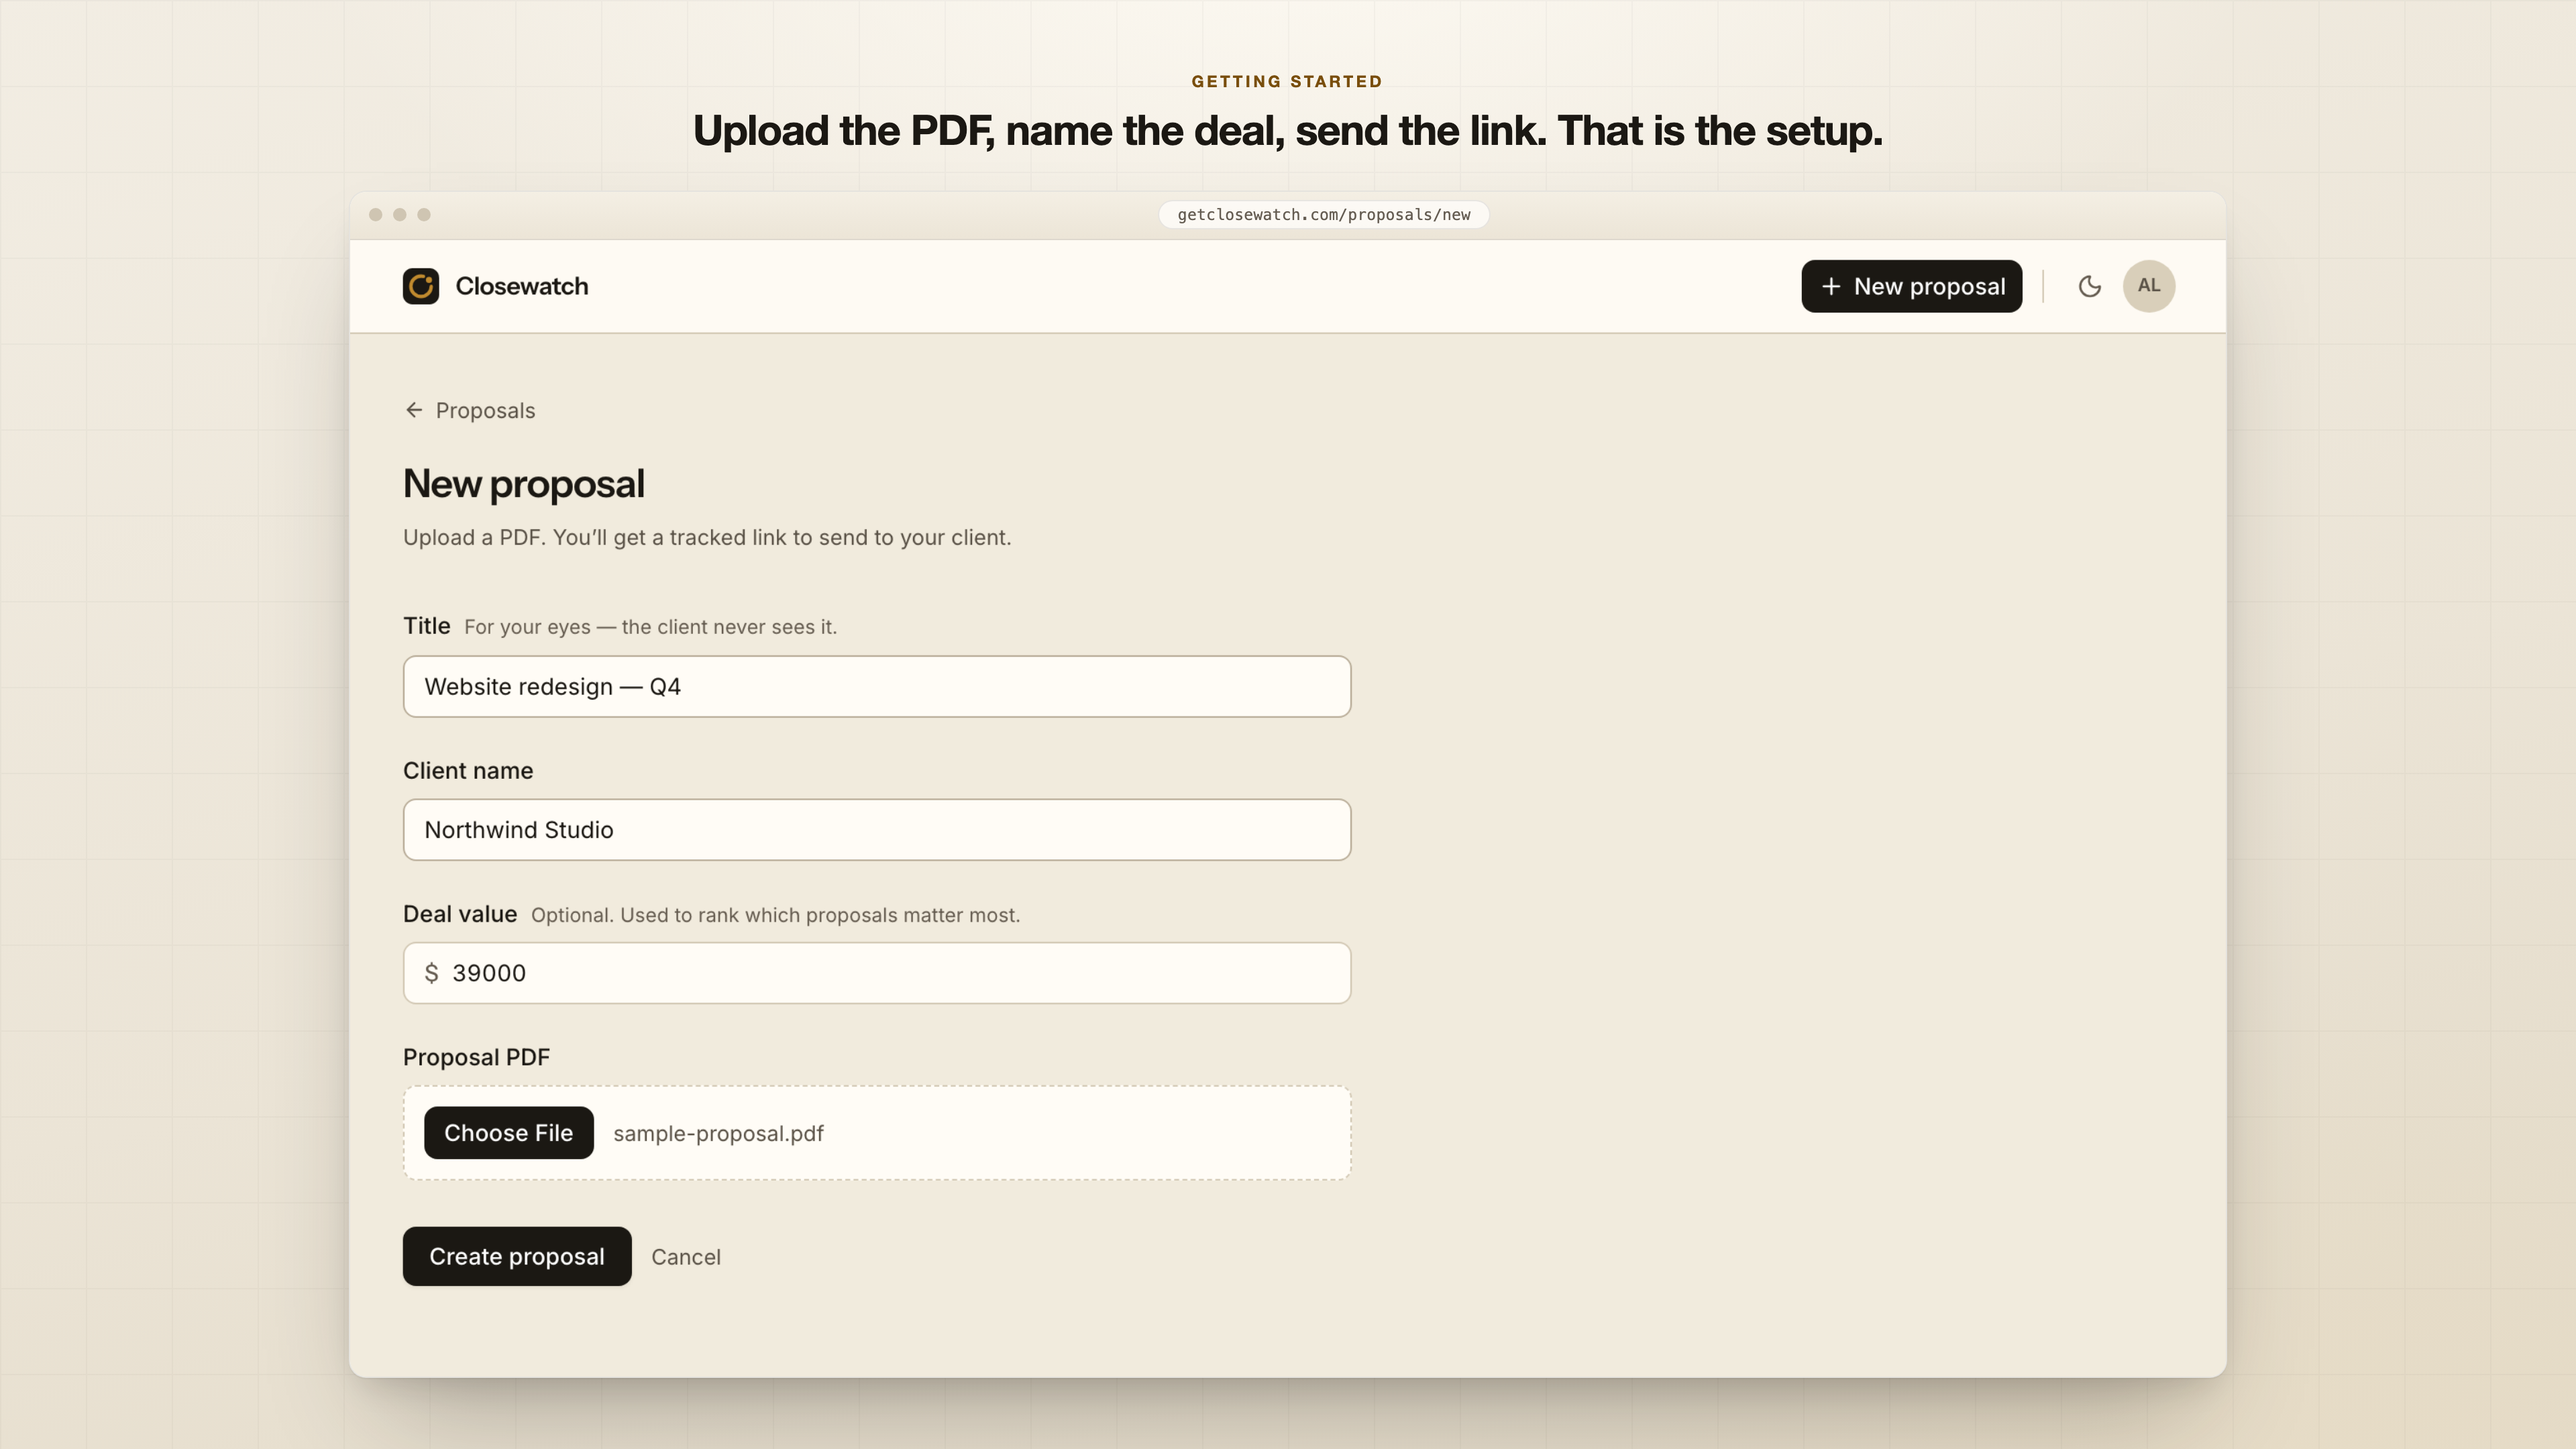
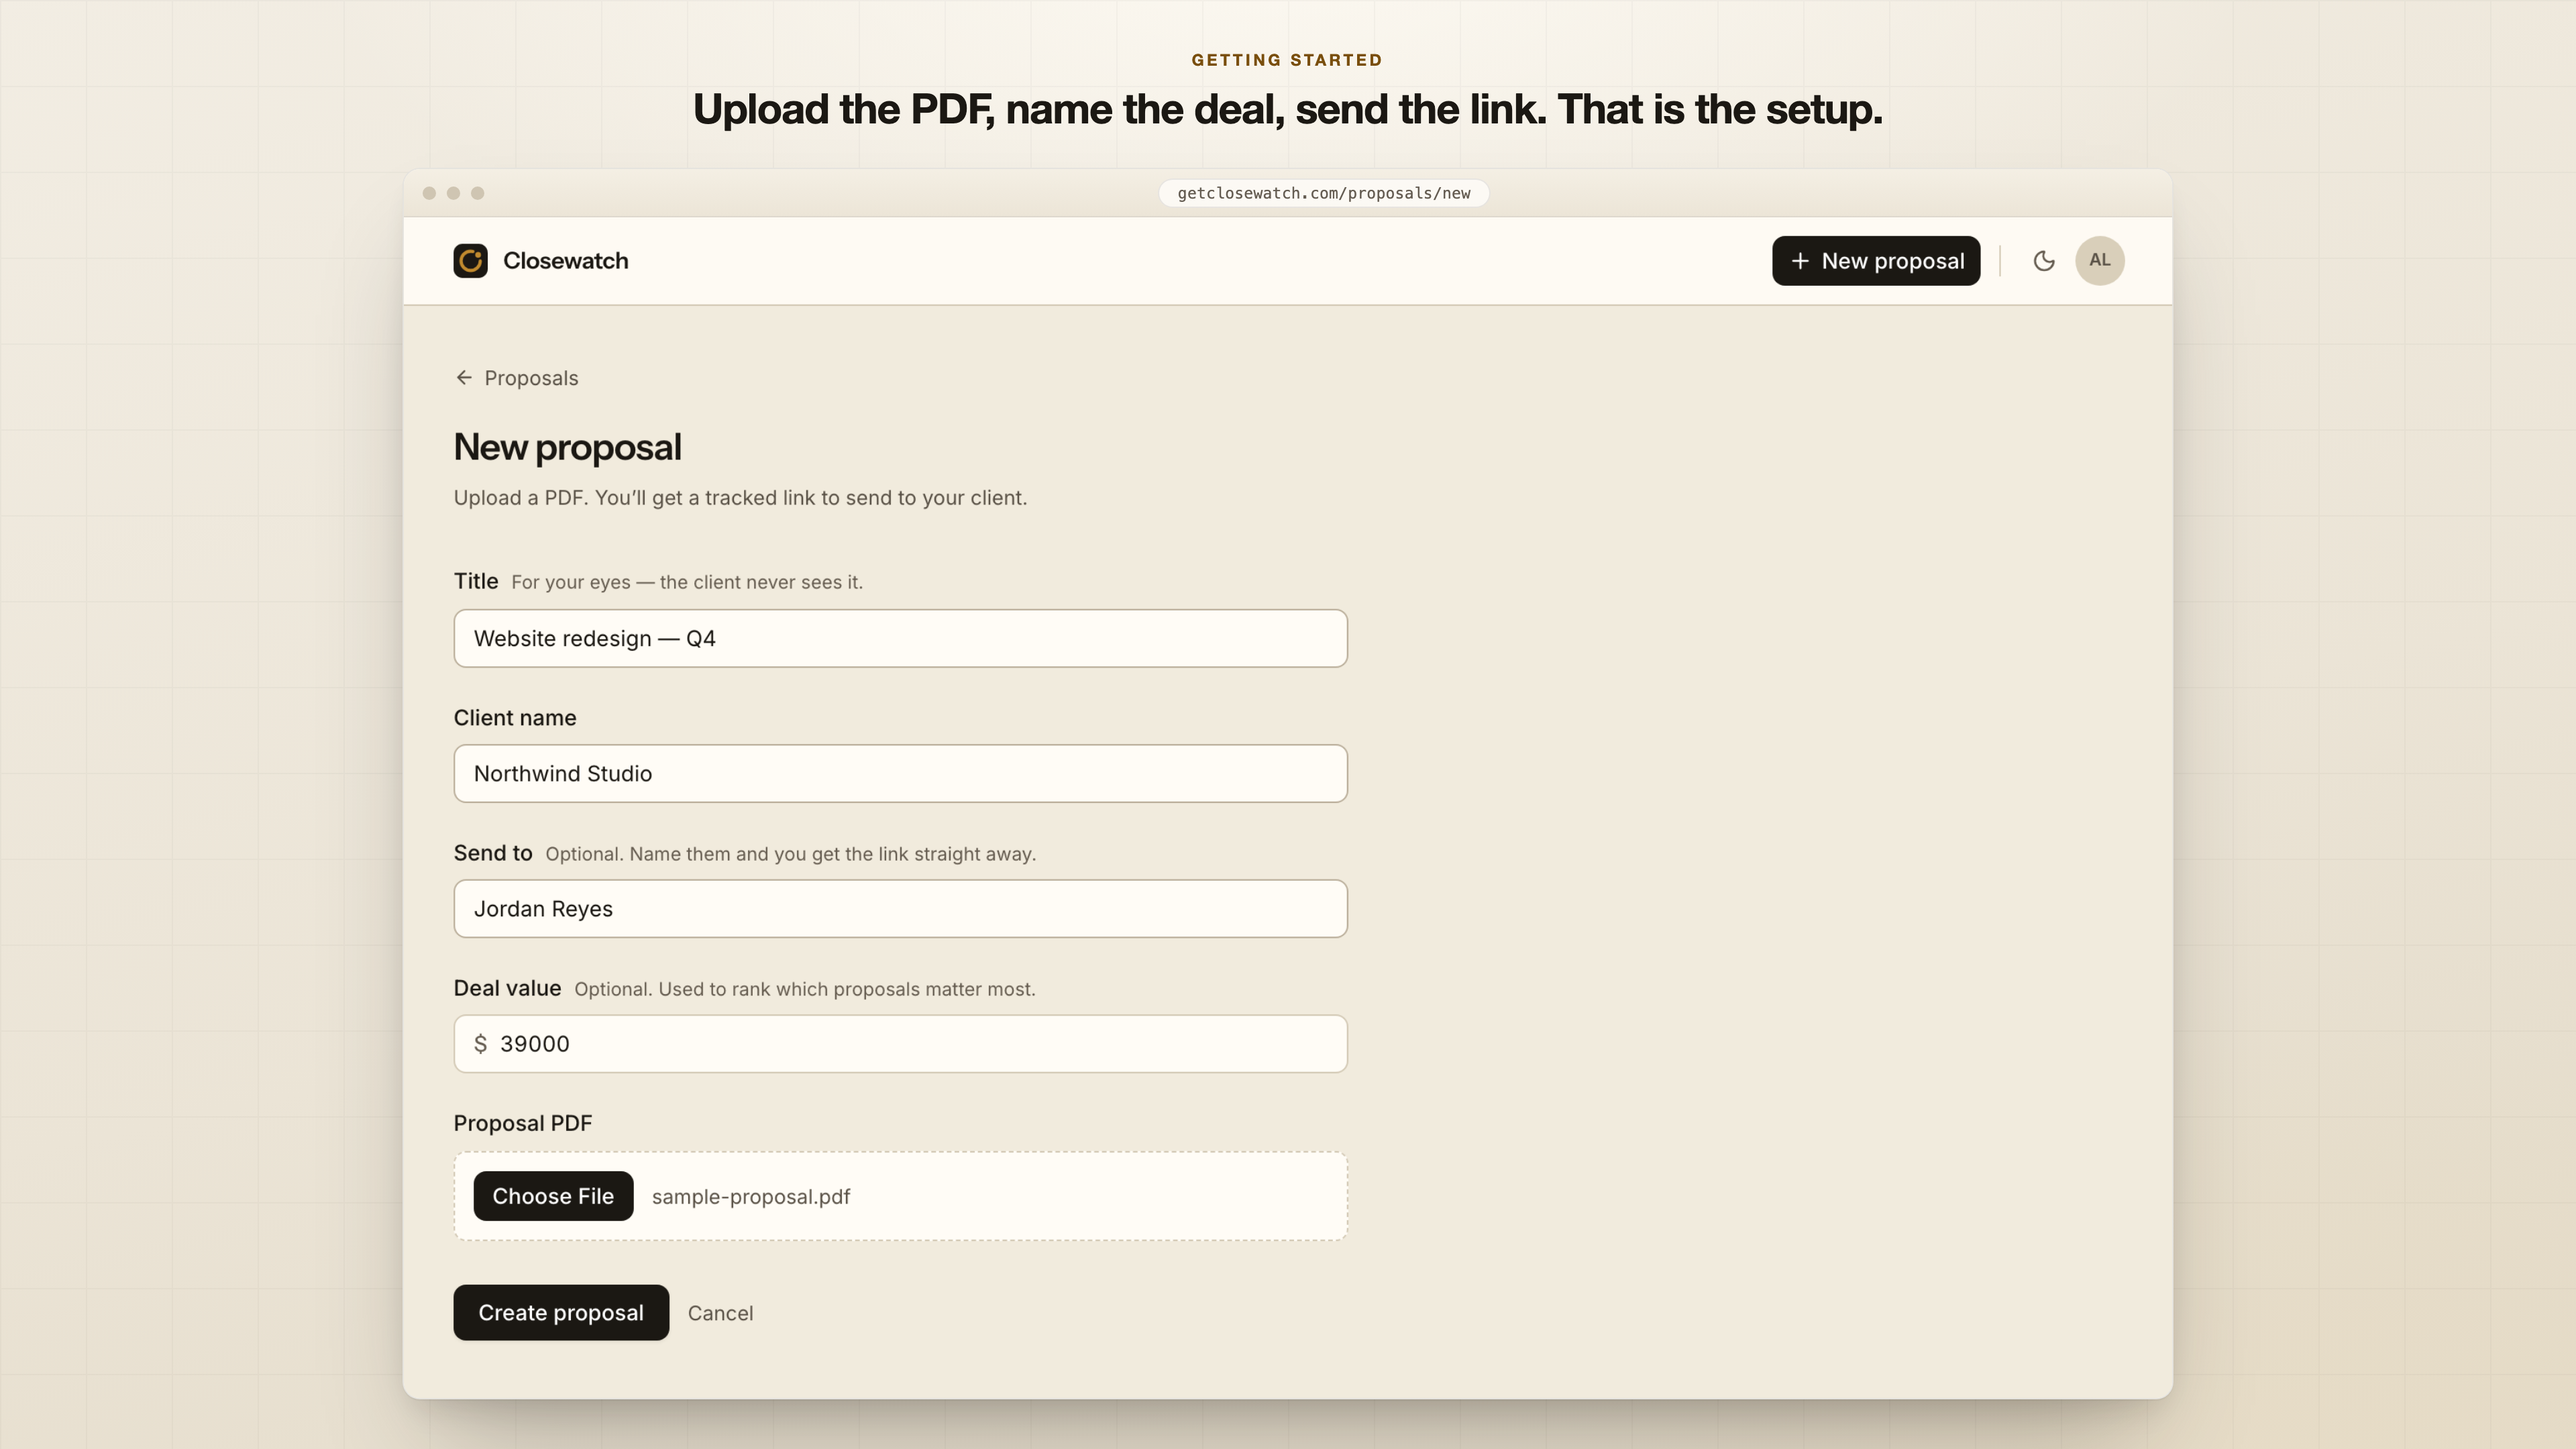
Reshoot the screenshots against the new upload flow
The upload form has a recipient field now, so the old shot of it was a picture
of a screen that no longer exists. The form shot fills it in, and there is a
sixth frame for what filling it produces: the hand-off block with the link and
the sentence saying we do not email it for anyone.

It is shot on Tidewater Coffee rather than the flagship. Tidewater is seeded
with a share link and no visits at all, and "now send this link" above five
visits and four minutes on pricing would be a screenshot arguing with itself.

Both themes, since the app changed rather than the palette.

Claude-Session: https://claude.ai/code/session_01QiSD1JSjjZgLn5Ej8wLY5X

Changed region(s): [[0.125, 0.2481, 0.875, 0.9926], [0.125, 0.031, 0.875, 0.2481]]

diff --git a/README.md b/README.md
@@ -78,7 +78,7 @@ it fails in a way that looks like a broken form rather than a race.
 
 ## Screenshots
 
-`node scripts/product-shots.mjs` regenerates the five launch screenshots in
+`node scripts/product-shots.mjs` regenerates the six launch screenshots in
 `public/shots/`, light and dark, at 3840x2160 — the 16:9 shape product
 directories crop everything else down to. It needs `pnpm dev` running in another
 terminal. Each screen is shot at the width the shell was designed for and then
